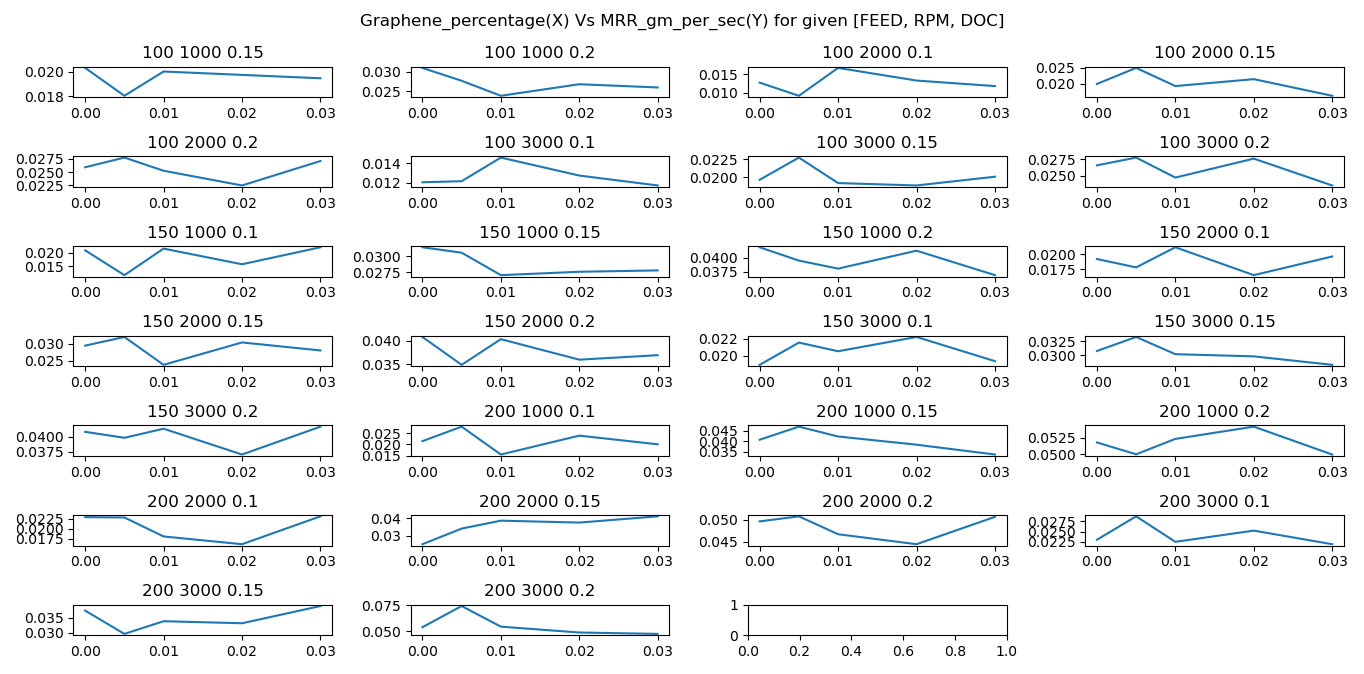
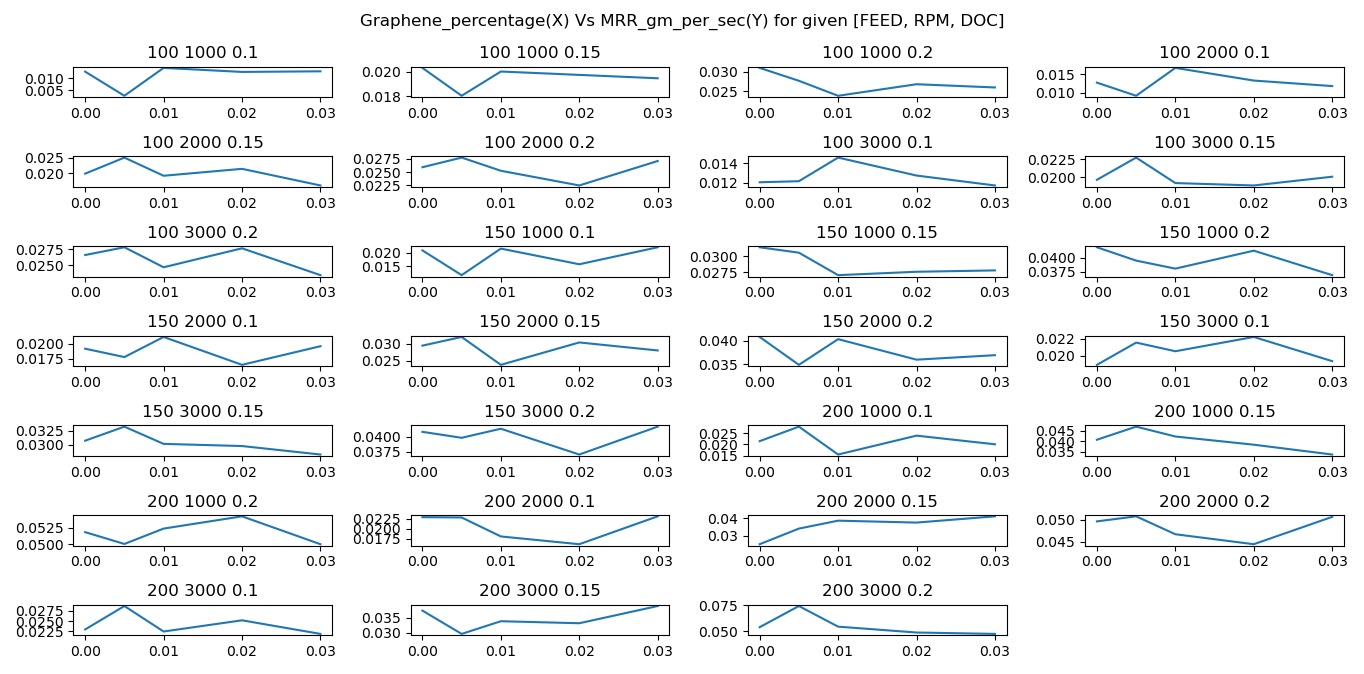
improved plot added new better random forest

diff --git a/scripts/data_view_cli2.py b/scripts/data_view_cli2.py
@@ -2,7 +2,7 @@ import pandas as pd
 import matplotlib.pyplot as plt
 
 
-grd = pd.read_csv("data/graphene_data_final.csv")
+grd = pd.read_csv("../data/graphene_data_final.csv")
 #Graphene_percentage  FEED   RPM   DOC  MRR_gm_per_sec     Ra
 
 ###################TO DO###############################################################
@@ -22,9 +22,9 @@ for i in grd["FEED"].unique():
 	for j in grd["RPM"].unique():
 		for k in grd["DOC"].unique():
 			grd2 =  grd[(grd["FEED"] == i) & (grd['RPM'] == j) & (grd['DOC'] == k)]
+			plt.subplot(7,4,count_)
 			plt.plot(grd2['Graphene_percentage'],grd2['MRR_gm_per_sec'])
 			plt.title(str(i)+' '+str(j)+' '+str(k))
-			plt.subplot(7,4,count_)
 			count_=count_+1
 
 #plt.ylabel('Ra')
